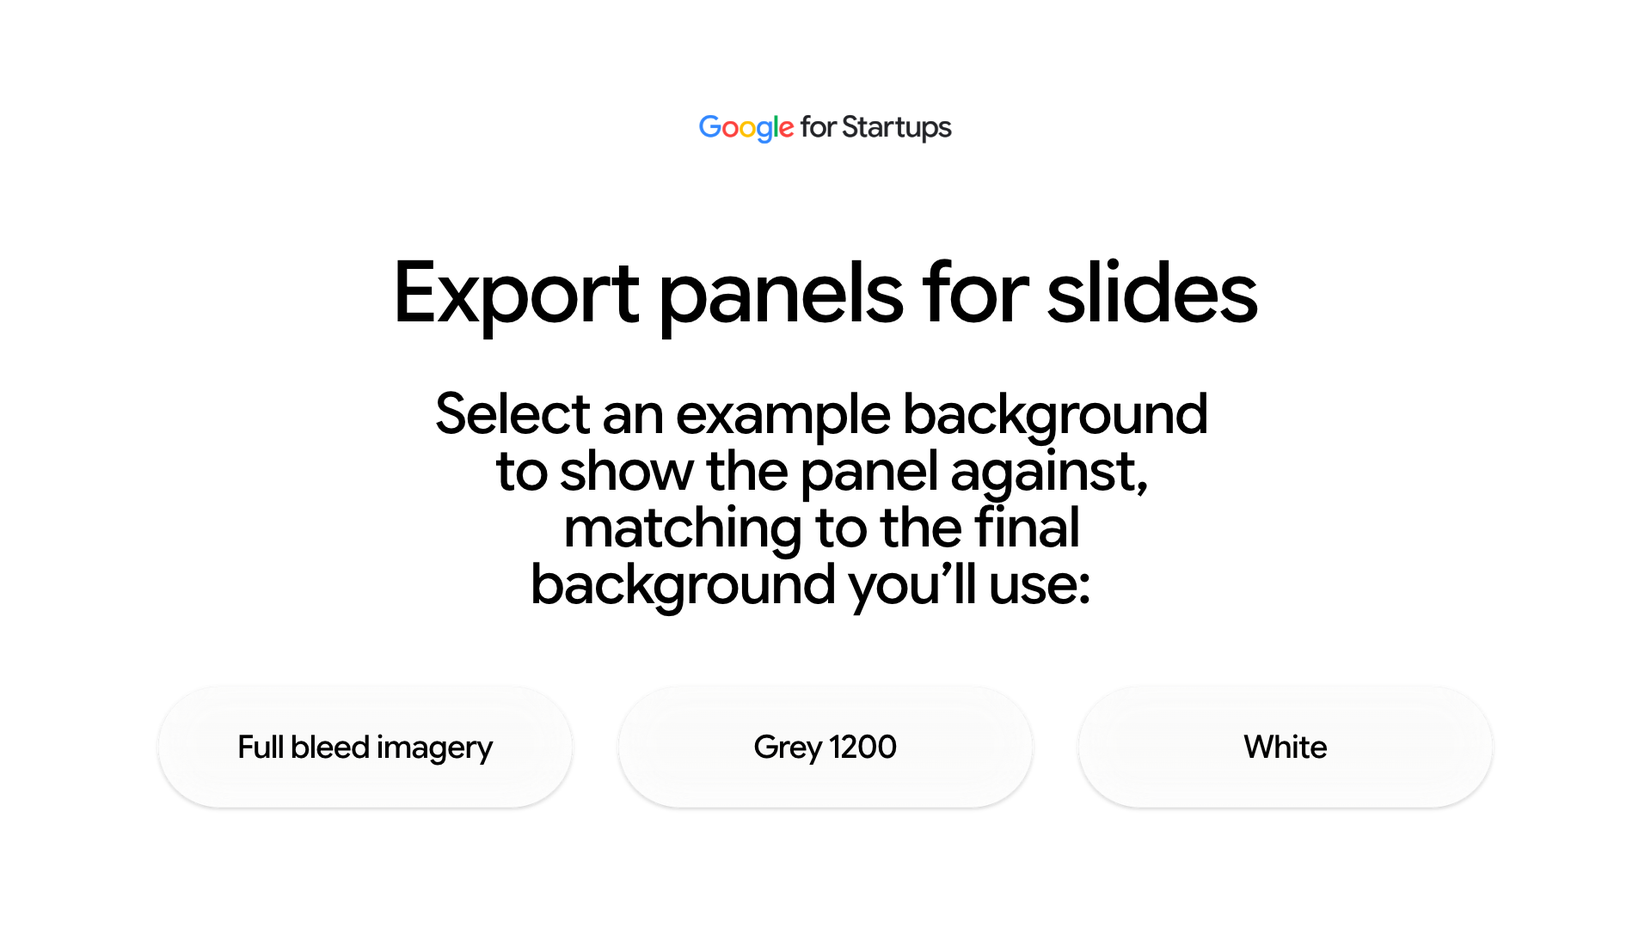
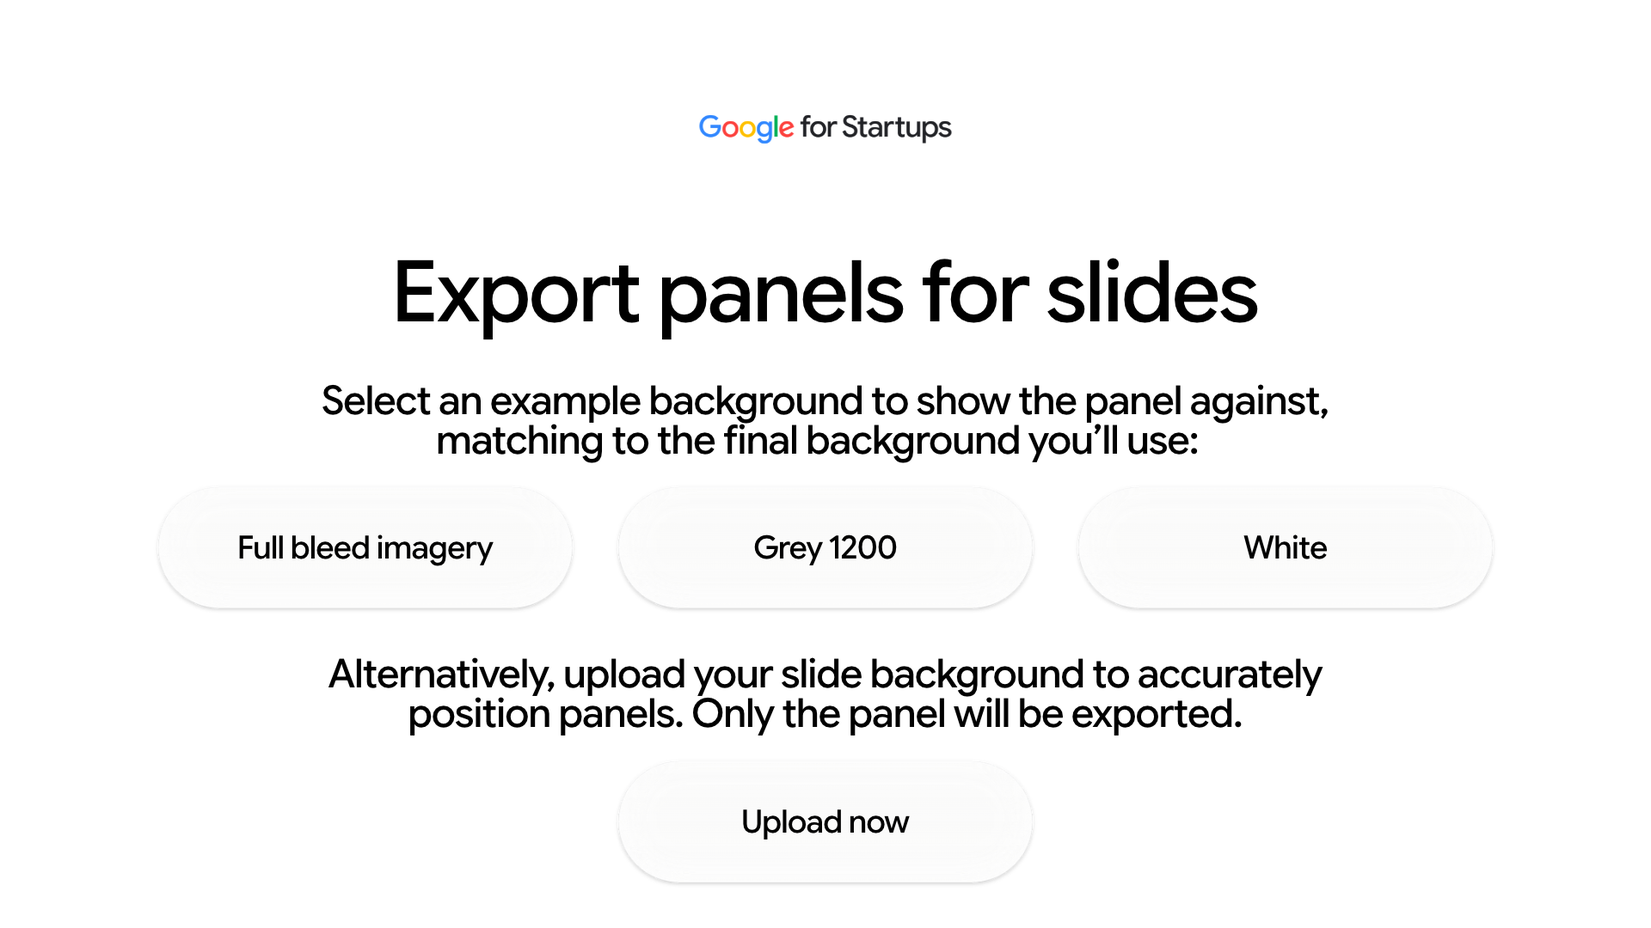
Add 16:9 Slides (960x540px) format and Upload a holding image UX flow

diff --git a/src/app/page.tsx b/src/app/page.tsx
@@ -11,12 +11,14 @@ import { PanelResizeHandle, handleToCursor, hitTestPanelHandle, hitTestPanelsLis
 import { GFS_MOMENTUM_FOLDER_ID, DriveItem, getConfiguredGoogleClientId, getDriveAccessToken, listDriveFolderItems, downloadDriveFileDirect , MomentumDropzoneModal } from "@/lib/driveDirectPicker";
 import { RecentUploadItem, RecentCreationItem, getRecentUploads, getRecentCreations, loadBlobAsFile, deleteRecentUpload, saveRecentCreation, deleteRecentCreation, registerExportListener, notifyExportTriggered, onUploadsChanged } from "@/lib/historyStore";
 import { RecentUploadsModal, RecentCreationsModal, RecentCreationsNavButton } from "@/lib/HistoryModals";
+import { HoldingUploadModal } from "@/lib/HoldingUploadModal";
 
 
 type ScreenId = "home" | "slides-pre" | "slides-create-cover" | "slides-fullbleed" | "slides-workspace" | "sticker-cover" | "sticker-sheet" | "bg-upload-cover" | "bg-workspace";
-type ResizePreset = "no-resize" | "1:1" | "4:5" | "9:16" | "16:9" | "custom";
+type ResizePreset = "no-resize" | "16:9-slides" | "16:9-slides" | "1:1" | "4:5" | "9:16" | "16:9" | "custom";
 
 const FORMAT_PRESETS: Record<string, { width: number; height: number }> = {
+  "16:9-slides": { width: 960, height: 540 },
   "1:1": { width: 1080, height: 1080 },
   "4:5": { width: 1080, height: 1350 },
   "9:16": { width: 1080, height: 1920 },
@@ -47,7 +49,7 @@ export default function Page() {
   const [theme, setTheme] = useState<BackgroundTheme>("imagery");
   const [imageryIdx, setImageryIdx] = useState(0);
 
-  const [slideFormat, setSlideFormat] = useState<"1:1" | "4:5" | "9:16" | "16:9">("1:1");
+  const [slideFormat, setSlideFormat] = useState<"16:9-slides" | "1:1" | "4:5" | "9:16" | "16:9">("16:9-slides");
   const [slideShape, setSlideShape] = useState<PanelShape>("text-panel");
   const [slideW, setSlideW] = useState("420");
   const [slideH, setSlideH] = useState("180");
@@ -80,6 +82,22 @@ export default function Page() {
   const [exportingMotion, setExportingMotion] = useState<null | { fmt: "mp4" | "gif"; pct: number }>(null);
 
   const [showMomentumModal, setShowMomentumModal] = useState(false);
+  const [showHoldingModal, setShowHoldingModal] = useState(false);
+  const [holdingMedia, setHoldingMedia] = useState<LoadedMedia | null>(null);
+  const [holdingLoading, setHoldingLoading] = useState(false);
+  const [holdingErr, setHoldingErr] = useState("");
+  const openHoldingImageFile = async (file: File) => {
+    setHoldingLoading(true); setHoldingErr("");
+    try {
+      const m = await loadUniversalMediaFile(file);
+      const sc = document.createElement("canvas"); sc.width = 24; sc.height = 24;
+      const sx = sc.getContext("2d")!; sx.drawImage(getMediaFrameAt(m, 0), 0, 0, 24, 24);
+      const d = sx.getImageData(0, 0, 24, 24).data; let lum = 0, wh = 0;
+      for (let i = 0; i < d.length; i += 4) { lum += 0.299 * d[i] + 0.587 * d[i+1] + 0.114 * d[i+2]; if (d[i] > 240 && d[i+1] > 240 && d[i+2] > 240) wh++; }
+      if (wh > 288) { setTheme("white"); setSlideOpacity(80); } else if (lum / 576 < 45) { setTheme("grey1200"); setSlideOpacity(40); } else { setTheme("imagery"); setSlideOpacity(35); }
+      setHoldingMedia(m); setSlideFormat("16:9-slides"); setShowHoldingModal(false); setScreen("slides-workspace");
+    } catch (err: any) { setHoldingErr(err?.message || "Could not load file."); } finally { setHoldingLoading(false); }
+  };
   const [clientIdInput, setClientIdInput] = useState("");
   const [driveToken, setDriveToken] = useState("");
   const [driveStack, setDriveStack] = useState<{ id: string; name: string }[]>([{ id: GFS_MOMENTUM_FOLDER_ID, name: "GFS Momentum" }]);
@@ -128,6 +146,7 @@ export default function Page() {
     const url = theme === "imagery" ? (BG_ASSETS.imageryExamples[imageryIdx] || BG_ASSETS.imageryExamples[0]) : theme === "grey1200" ? BG_ASSETS.grey1200 : BG_ASSETS.white;
     const pw = Math.max(60, parseInt(slideW || "420", 10) || 420), ph = slideShape === "circle" ? pw : Math.max(60, parseInt(slideH || "180", 10) || 180);
     setSlidePos({ x: Math.round((width - pw) / 2), y: Math.round((height - ph) / 2) });
+    if (holdingMedia) { const c = document.createElement("canvas"); c.width = width; c.height = height; const hs = Math.max(width / holdingMedia.width, height / holdingMedia.height); c.getContext("2d")!.drawImage(getMediaFrameAt(holdingMedia, 0), (width - holdingMedia.width * hs) / 2, (height - holdingMedia.height * hs) / 2, holdingMedia.width * hs, holdingMedia.height * hs); slideBgImgRef.current = c; return; }
     if (url) {
       const im = new Image();
       im.onload = () => {
@@ -139,13 +158,14 @@ export default function Page() {
       im.onerror = () => { slideBgImgRef.current = makeFallbackSlideBg(width, height, theme); };
       im.src = url;
     } else slideBgImgRef.current = makeFallbackSlideBg(width, height, theme);
-  }, [screen, slideFormat, theme, imageryIdx]);
+  }, [screen, slideFormat, theme, imageryIdx, holdingMedia]);
 
   useEffect(() => {
     if (screen !== "slides-workspace") return;
     let raf = 0;
     const render = () => {
       const c = slideCanvasRef.current, bg = slideBgImgRef.current;
+      if (holdingMedia && holdingMedia.isMotion && bg) { const { width: hw, height: hh } = FORMAT_PRESETS[slideFormat]; const hs = Math.max(hw / holdingMedia.width, hh / holdingMedia.height); const hx = (bg as HTMLCanvasElement).getContext("2d")!; hx.clearRect(0, 0, hw, hh); hx.drawImage(getMediaFrameAt(holdingMedia, performance.now()), (hw - holdingMedia.width * hs) / 2, (hh - holdingMedia.height * hs) / 2, holdingMedia.width * hs, holdingMedia.height * hs); }
       if (c && bg) {
         const { width, height } = FORMAT_PRESETS[slideFormat];
         if (c.width !== width || c.height !== height) { c.width = width; c.height = height; }
@@ -162,7 +182,7 @@ export default function Page() {
     };
     raf = requestAnimationFrame(render);
     return () => cancelAnimationFrame(raf);
-  }, [screen, slideFormat, slideW, slideH, slideShape, theme, slideOpacity, slidePos]);
+  }, [screen, slideFormat, slideW, slideH, slideShape, theme, slideOpacity, slidePos, holdingMedia]);
 
   useEffect(() => {
     if (screen !== "bg-workspace" || !media) return;
@@ -474,7 +494,7 @@ const fw = frameDims.width, fh = frameDims.height, sw = media.width * mediaScale
     else if (screen === "sticker-cover" || screen === "slides-create-cover") setScreen("slides-pre");
     else if (screen === "sticker-sheet") setScreen("sticker-cover");
     else if (screen === "slides-fullbleed") setScreen("slides-create-cover");
-    else if (screen === "slides-workspace") setScreen(theme === "imagery" ? "slides-fullbleed" : "slides-create-cover");
+    else if (screen === "slides-workspace") setScreen(holdingMedia ? "slides-create-cover" : theme === "imagery" ? "slides-fullbleed" : "slides-create-cover");
     else if (screen === "bg-workspace") setScreen("bg-upload-cover");
     else setScreen("home");
   };
@@ -582,6 +602,7 @@ const fw = frameDims.width, fh = frameDims.height, sw = media.width * mediaScale
 
       <RecentUploadsModal open={showRecentUploads} items={recentUploads} onClose={() => setShowRecentUploads(false)} onPickUpload={async (u) => { setShowRecentUploads(false); const f = await loadBlobAsFile(u.blobKey, u.name, u.type); if (f) applyLoadedMedia(await loadUniversalMediaFile(f)); }} onPickNewFile={async (f) => { setShowRecentUploads(false); applyLoadedMedia(await loadUniversalMediaFile(f)); }} onDeleteUpload={async (id) => { await deleteRecentUpload(id); setRecentUploads(await getRecentUploads()); }} />
       <RecentCreationsModal open={showRecentCreations} items={recentCreations} onClose={() => setShowRecentCreations(false)} onRestore={handleRestoreCreation} onDelete={async (id) => { await deleteRecentCreation(id); setRecentCreations(await getRecentCreations()); }} />
+      <HoldingUploadModal open={showHoldingModal} driveUrl={GFS_MOMENTUM_DRIVE_URL} loading={holdingLoading} error={holdingErr} onClose={() => setShowHoldingModal(false)} onSelectFile={openHoldingImageFile} />
       {showMomentumModal && <MomentumDropzoneModal onClose={() => setShowMomentumModal(false)} onSelectFile={async (f: File) => { setShowMomentumModal(false); applyLoadedMedia(await loadUniversalMediaFile(f)); }} />}
 
       {screen !== "sticker-sheet" ? (
@@ -589,7 +610,19 @@ const fw = frameDims.width, fh = frameDims.height, sw = media.width * mediaScale
           {screen === "home" && <><img src={PAGE_ASSETS.home} alt="Welcome" className="w-full h-full object-cover select-none" />{renderZones(BUTTON_ZONES.home, [() => setScreen("bg-upload-cover"), () => setScreen("slides-pre")])}</>}
           {screen === "slides-pre" && <><img src={PAGE_ASSETS.slidesPreCover} alt="Slides" className="w-full h-full object-cover select-none" />{renderZones(BUTTON_ZONES.slidesPreCover, [() => setScreen("sticker-cover"), () => setScreen("slides-create-cover")])}</>}
           {screen === "sticker-cover" && <><img src={PAGE_ASSETS.stickerCover} alt="Stickers" className="w-full h-full  select-none h-auto block" />{renderZones(BUTTON_ZONES.stickerCover, [() => { setTheme("imagery"); setStickerFilter("all"); setScreen("sticker-sheet"); }, () => { setTheme("grey1200"); setStickerFilter("all"); setScreen("sticker-sheet"); }, () => { setTheme("white"); setStickerFilter("all"); setScreen("sticker-sheet"); }])}</>}
-          {screen === "slides-create-cover" && <><img src={PAGE_ASSETS.slidesCreateCover} alt="Create" className="w-full h-full object-cover select-none" />{renderZones(BUTTON_ZONES.slidesCreateCover, [() => { setTheme("imagery"); setSlideOpacity(50); setScreen("slides-fullbleed"); }, () => { setTheme("grey1200"); setSlideOpacity(50); setScreen("slides-workspace"); }, () => { setTheme("white"); setSlideOpacity(50); setScreen("slides-workspace"); }])}</>}
+          {screen === "slides-create-cover" && (
+            <div className="relative w-full h-full">
+              <img src={PAGE_ASSETS.slidesCreateCover} alt="Create" className="w-full h-full object-cover select-none pointer-events-none" />
+              {BUTTON_ZONES.slidesCreateCover.map((z, zi) => (
+                <button key={zi} type="button" onClick={() => {
+                  if (zi === 0) { setHoldingMedia(null); setTheme("imagery"); setSlideOpacity(35); setScreen("slides-fullbleed"); }
+                  else if (zi === 1) { setHoldingMedia(null); setTheme("grey1200"); setSlideOpacity(40); setSlideFormat("16:9-slides"); setScreen("slides-workspace"); }
+                  else if (zi === 2) { setHoldingMedia(null); setTheme("white"); setSlideOpacity(80); setSlideFormat("16:9-slides"); setScreen("slides-workspace"); }
+                  else { setHoldingErr(""); setShowHoldingModal(true); }
+                }} style={{ left: `${z.left}%`, top: `${z.top}%`, width: `${z.width}%`, height: `${z.height}%` }} className="absolute z-10 rounded-full hover:bg-black/[0.04] transition cursor-pointer" />
+              ))}
+            </div>
+          )}
           {screen === "slides-fullbleed" && <><img src={PAGE_ASSETS.slidesFullBleedCover} alt="Examples" className="w-full h-full object-cover select-none" />{renderZones(BUTTON_ZONES.fullBleedPhotos, [0,1,2,3].map((i) => () => { setImageryIdx(i); setTheme("imagery"); setSlideOpacity(50); setScreen("slides-workspace"); }))}</>}
           {screen === "bg-upload-cover" && <><img src={PAGE_ASSETS.bgUploadCover} alt="Upload" className="w-full h-full object-cover select-none" />{renderZones(BUTTON_ZONES.bgUploadCover, [() => fileInputRef.current?.click(), () => openMomentumDriveBrowser()])}</>}
 
@@ -618,8 +651,9 @@ const fw = frameDims.width, fh = frameDims.height, sw = media.width * mediaScale
               </div>
               <div className="absolute z-10 left-[50%] right-[6%] top-[55%] bottom-[4%] flex flex-col gap-2">
                 <div className="flex flex-wrap items-end gap-3">
-                  <div className="flex flex-col gap-0.5"><label className="text-[10px] font-semibold">Format</label><select value={slideFormat} onChange={(e) => setSlideFormat(e.target.value as any)} className="h-7 px-2 text-[11px] bg-white border border-neutral-800 rounded-md"><option value="1:1">1:1</option><option value="4:5">4:5</option><option value="9:16">9:16</option><option value="16:9">16:9</option></select></div>
+                  <div className="flex flex-col gap-0.5"><label className="text-[10px] font-semibold">Format</label><select value={slideFormat} onChange={(e) => setSlideFormat(e.target.value as any)} className="h-7 px-2 text-[11px] bg-white border border-neutral-800 rounded-md"><option value="16:9-slides">16:9 Slides (960x540px)</option><option value="1:1">1:1</option><option value="4:5">4:5</option><option value="9:16">9:16</option><option value="16:9">16:9</option></select></div>
                   <div className="flex flex-col gap-0.5"><label className="text-[10px] font-semibold">Shape</label><select value={slideShape} onChange={(e) => setSlideShape(e.target.value as PanelShape)} className="h-7 px-2 text-[11px] bg-white border border-neutral-800 rounded-md"><option value="text-panel">Text panel</option><option value="circle">Circle</option><option value="cta-pill">CTA pill</option></select></div>
+                  {holdingMedia && <div className="flex flex-col gap-0.5"><label className="text-[10px] font-semibold">Rim calibration</label><select value={theme} onChange={(e) => { const nt = e.target.value as BackgroundTheme; setTheme(nt); setSlideOpacity(nt === "white" ? 80 : nt === "grey1200" ? 40 : 35); }} className="h-7 px-2 text-[11px] font-medium bg-white border border-neutral-800 rounded-md"><option value="imagery">Full bleed image</option><option value="grey1200">Grey 1200</option><option value="white">White</option></select></div>}
                 </div>
                 <div className="flex flex-col gap-0.5"><label className="text-[10px] font-semibold">Size</label><div className="flex items-center gap-2 text-[11px]"><input type="number" min={24} max={4000} value={slideW} onChange={(e) => setSlideW(e.target.value)} className="w-[72px] h-7 px-2 bg-white border border-neutral-800 rounded-md" /><span>{slideShape === "circle" ? "px diameter" : "px wide x"}</span>{slideShape !== "circle" && <><input type="number" min={24} max={4000} value={slideH} onChange={(e) => setSlideH(e.target.value)} className="w-[72px] h-7 px-2 bg-white border border-neutral-800 rounded-md" /><span>px high</span></>}</div></div>
                 <div className="flex flex-col gap-0.5 max-w-[260px]"><div className="flex justify-between text-[10px]"><span className="font-semibold">Opacity</span><span className="text-neutral-500">{slideOpacity}%</span></div><input type="range" min={0} max={100} value={slideOpacity} onChange={(e) => setSlideOpacity(Number(e.target.value))} className="w-full accent-neutral-900 h-1.5 bg-neutral-300 rounded-lg cursor-pointer" /></div>
@@ -639,7 +673,7 @@ const fw = frameDims.width, fh = frameDims.height, sw = media.width * mediaScale
               </div>
               <div className="absolute z-10 left-[50%] right-[5%] top-[56.5%] bottom-[3.5%] overflow-y-auto pr-2 flex flex-col gap-2">
                 <div className="flex flex-wrap items-end gap-2.5">
-                  <div className="flex flex-col gap-0.5"><label className="text-[10px] font-semibold">Image resize</label><div className="flex items-center gap-2"><select value={resizeMode} onChange={(e) => applyResizePreset(e.target.value as ResizePreset)} className="h-7 px-2 text-[11px] bg-white border border-neutral-800 rounded-md"><option value="no-resize">No resize ({media.width}x{media.height})</option><option value="1:1">1:1 (1080x1080)</option><option value="4:5">4:5 (1080x1350)</option><option value="9:16">9:16 (1080x1920)</option><option value="16:9">16:9 (1920x1080)</option><option value="custom">Custom</option></select>{mediaRot !== 0 && (<button type="button" onClick={() => { setActiveMediaRotation(0); setMediaRot(0); }} className="h-7 px-2.5 rounded-md border border-neutral-300 bg-white hover:bg-neutral-100 text-[11px] font-medium text-[#121317] whitespace-nowrap cursor-pointer">{`${Math.round(mediaRot)}° · Reset`}</button>)}</div></div>
+                  <div className="flex flex-col gap-0.5"><label className="text-[10px] font-semibold">Image resize</label><div className="flex items-center gap-2"><select value={resizeMode} onChange={(e) => applyResizePreset(e.target.value as ResizePreset)} className="h-7 px-2 text-[11px] bg-white border border-neutral-800 rounded-md"><option value="no-resize">No resize ({media.width}x{media.height})</option><option value="16:9-slides">16:9 Slides (960x540px)</option><option value="1:1">1:1 (1080x1080)</option><option value="4:5">4:5 (1080x1350)</option><option value="9:16">9:16 (1080x1920)</option><option value="16:9">16:9 (1920x1080)</option><option value="custom">Custom</option></select>{mediaRot !== 0 && (<button type="button" onClick={() => { setActiveMediaRotation(0); setMediaRot(0); }} className="h-7 px-2.5 rounded-md border border-neutral-300 bg-white hover:bg-neutral-100 text-[11px] font-medium text-[#121317] whitespace-nowrap cursor-pointer">{`${Math.round(mediaRot)}° · Reset`}</button>)}</div></div>
                   {resizeMode === "custom" && <div className="flex items-center gap-1.5 text-[11px]"><input type="number" min={64} max={6000} value={customFrameW} onChange={(e) => setCustomFrameW(e.target.value)} className="w-[68px] h-7 px-2 bg-white border border-neutral-800 rounded-md" /><span>x</span><input type="number" min={64} max={6000} value={customFrameH} onChange={(e) => setCustomFrameH(e.target.value)} className="w-[68px] h-7 px-2 bg-white border border-neutral-800 rounded-md" /><span>px</span></div>}
                 </div>
 

diff --git a/src/lib/assetPaths.ts b/src/lib/assetPaths.ts
@@ -1,12 +1,12 @@
 export interface ZoneRect { left: number; top: number; width: number; height: number; }
 export const GFS_MOMENTUM_DRIVE_URL = "https://drive.google.com/corp/drive/folders/1M1OORV7B5g5e-TGADNOJTaPDynvCoWAK";
 export const PAGE_ASSETS = {
-  "home": "/assets/glass-panel-app_16_9-cover.png?v=1795645950",
-  "slidesPreCover": "/assets/glass-panel-app_16_9-export-just-a-panel-pre-cover.png?v=1795645950",
-  "slidesCreateCover": "/assets/glass-panel-app_16_9-export-just-a-panel-cover.png?v=1795645950",
-  "slidesFullBleedCover": "/assets/glass-panel-app_16_9-full-bleed-image-cover.png?v=1795645950",
-  "slidesInternal": "/assets/glass-panel-app_16_9-export-just-a-panel-internal-page.png?v=1795645950",
-  "stickerCover": "/assets/glass-panel-app_16_9-sticker-sheet-cover.png?v=1795645950",
+  "home": "/assets/glass-panel-app_16_9-cover.png?v=1795706100",
+  "slidesPreCover": "/assets/glass-panel-app_16_9-export-just-a-panel-pre-cover.png?v=1795706100",
+  "slidesCreateCover": "/assets/glass-panel-app_16_9-export-just-a-panel-cover.png?v=1795706100",
+  "slidesFullBleedCover": "/assets/glass-panel-app_16_9-full-bleed-image-cover.png?v=1795706100",
+  "slidesInternal": "/assets/glass-panel-app_16_9-export-just-a-panel-internal-page.png?v=1795706100",
+  "stickerCover": "/assets/glass-panel-app_16_9-sticker-sheet-cover.png?v=1795706100",
   "stickerImagery": "/assets/sticker-sheet-imagery-v6.png",
   "stickerGrey1200": "/assets/sticker-sheet-grey1200-v6.png",
   "stickerWhite": "/assets/sticker-sheet-white-v6.png",
@@ -14,11 +14,11 @@ export const PAGE_ASSETS = {
   "bgInternal": "/assets/bg-internal-page-v5.png"
 } as const;
 export const BG_ASSETS = { imageryExamples: [
-  "/assets/3._background_imagery_3a._1_1_glass_panel_app_1_1_image_option_1.png?v=1795645950",
-  "/assets/glass-panel-app-16-9-image-option-4.png?v=1795645950",
-  "/assets/glass-panel-app-16-9-image-option-3.png?v=1795645950",
-  "/assets/glass-panel-app-1-1-image-option-2.png?v=1795645950"
-], grey1200: "/assets/glass-panel-app_9_16-grey-1200.png?v=1795645950", white: "/assets/glass-panel-app_9_16-white.png?v=1795645950" } as const;
+  "/assets/3._background_imagery_3a._1_1_glass_panel_app_1_1_image_option_1.png?v=1795706100",
+  "/assets/glass-panel-app-16-9-image-option-4.png?v=1795706100",
+  "/assets/glass-panel-app-16-9-image-option-3.png?v=1795706100",
+  "/assets/glass-panel-app-1-1-image-option-2.png?v=1795706100"
+], grey1200: "/assets/glass-panel-app_9_16-grey-1200.png?v=1795706100", white: "/assets/glass-panel-app_9_16-white.png?v=1795706100" } as const;
 export const BUTTON_ZONES: Record<string, ZoneRect[]> = {
   "home": [
     {
@@ -50,24 +50,30 @@ export const BUTTON_ZONES: Record<string, ZoneRect[]> = {
   ],
   "slidesCreateCover": [
     {
-      "left": 11.28,
-      "top": 75.84,
-      "width": 21.81,
-      "height": 9.8
+        "left": 14.49,
+        "top": 46.46,
+        "width": 26.44,
+        "height": 20.96
     },
     {
-      "left": 29.04,
-      "top": 60.98,
-      "width": 40.15,
-      "height": 24.33
+        "left": 37.98,
+        "top": 46.46,
+        "width": 23.94,
+        "height": 20.96
     },
     {
-      "left": 69.61,
-      "top": 75.47,
-      "width": 16.5,
-      "height": 9.8
+        "left": 58.97,
+        "top": 46.46,
+        "width": 26.44,
+        "height": 20.96
+    },
+    {
+        "left": 33.5,
+        "top": 76.46,
+        "width": 32.27,
+        "height": 20.41
     }
-  ],
+],
   "stickerCover": [
     {
       "left": 24,

diff --git a/src/lib/HoldingUploadModal.tsx b/src/lib/HoldingUploadModal.tsx
@@ -1,0 +1,49 @@
+"use client";
+import React, { useRef, useState } from "react";
+import { X, ExternalLink } from "lucide-react";
+
+export function HoldingUploadModal({
+  open, driveUrl, loading, error, onClose, onSelectFile,
+}: {
+  open: boolean; driveUrl: string; loading: boolean; error: string;
+  onClose: () => void; onSelectFile: (file: File) => void;
+}) {
+  const inputRef = useRef<HTMLInputElement | null>(null);
+  const [dragOver, setDragOver] = useState(false);
+  if (!open) return null;
+  return (
+    <div
+      onClick={onClose}
+      onDragOver={(e) => { e.preventDefault(); e.stopPropagation(); setDragOver(true); }}
+      onDragLeave={(e) => { e.preventDefault(); e.stopPropagation(); setDragOver(false); }}
+      onDrop={(e) => {
+        e.preventDefault(); e.stopPropagation(); setDragOver(false);
+        const f = e.dataTransfer.files?.[0]; if (f) onSelectFile(f);
+      }}
+      className="fixed inset-0 z-50 bg-black/45 backdrop-blur-[2px] flex items-center justify-center p-4"
+    >
+      <div onClick={(e) => e.stopPropagation()} className="bg-white rounded-[28px] shadow-2xl border border-neutral-200 w-full max-w-[520px] p-6 sm:p-7 relative text-[#121317]">
+        <input ref={inputRef} type="file" accept=".mp4,.mov,.psd,.gif,.png,.jpg,.jpeg,.tif,.tiff,.webp,image/*,video/*" className="hidden" onChange={(e) => { const f = e.target.files?.[0]; if (f) onSelectFile(f); e.currentTarget.value = ""; }} />
+        <div className="flex items-start justify-between gap-4">
+          <div>
+            <h3 className="text-[20px] font-semibold leading-tight">Upload a holding image</h3>
+            <p className="text-[13px] text-neutral-500 mt-1">Choose from Drive or desktop</p>
+          </div>
+          <button type="button" onClick={onClose} className="p-1.5 rounded-full text-neutral-500 hover:text-black hover:bg-neutral-100 transition cursor-pointer"><X className="w-5 h-5" /></button>
+        </div>
+        <div className="mt-5 rounded-2xl bg-[#F8F9FA] border border-neutral-200/90 px-4 py-3.5 flex items-center justify-between gap-3">
+          <div>
+            <div className="text-[13px] font-semibold">Step 1: Choose from Drive</div>
+            <div className="text-[12px] text-neutral-500">Download chosen asset.</div>
+          </div>
+          <a href={driveUrl} target="_blank" rel="noopener noreferrer" className="inline-flex items-center gap-1.5 px-4 py-2 rounded-full bg-[#121317] hover:bg-neutral-800 text-white text-[12px] font-semibold whitespace-nowrap transition">Open Drive Folder <ExternalLink className="w-3.5 h-3.5" /></a>
+        </div>
+        <div onClick={() => !loading && inputRef.current?.click()} className={`mt-3.5 rounded-2xl border-2 border-dashed px-6 py-8 text-center transition cursor-pointer ${dragOver ? "border-[#121317] bg-neutral-50" : "border-neutral-300 hover:border-neutral-900 bg-white"}`}>
+          <div className="text-[14px] font-semibold">{loading ? "Loading holding image..." : "Step 2: Drag file here or click"}</div>
+          <div className="text-[12px] text-neutral-400 mt-1">Supports .mp4, .mov, .psd, .gif, .png, .jpeg, and .tif</div>
+          {error && <div className="text-[12px] text-red-600 mt-2 font-medium">{error}</div>}
+        </div>
+      </div>
+    </div>
+  );
+}
